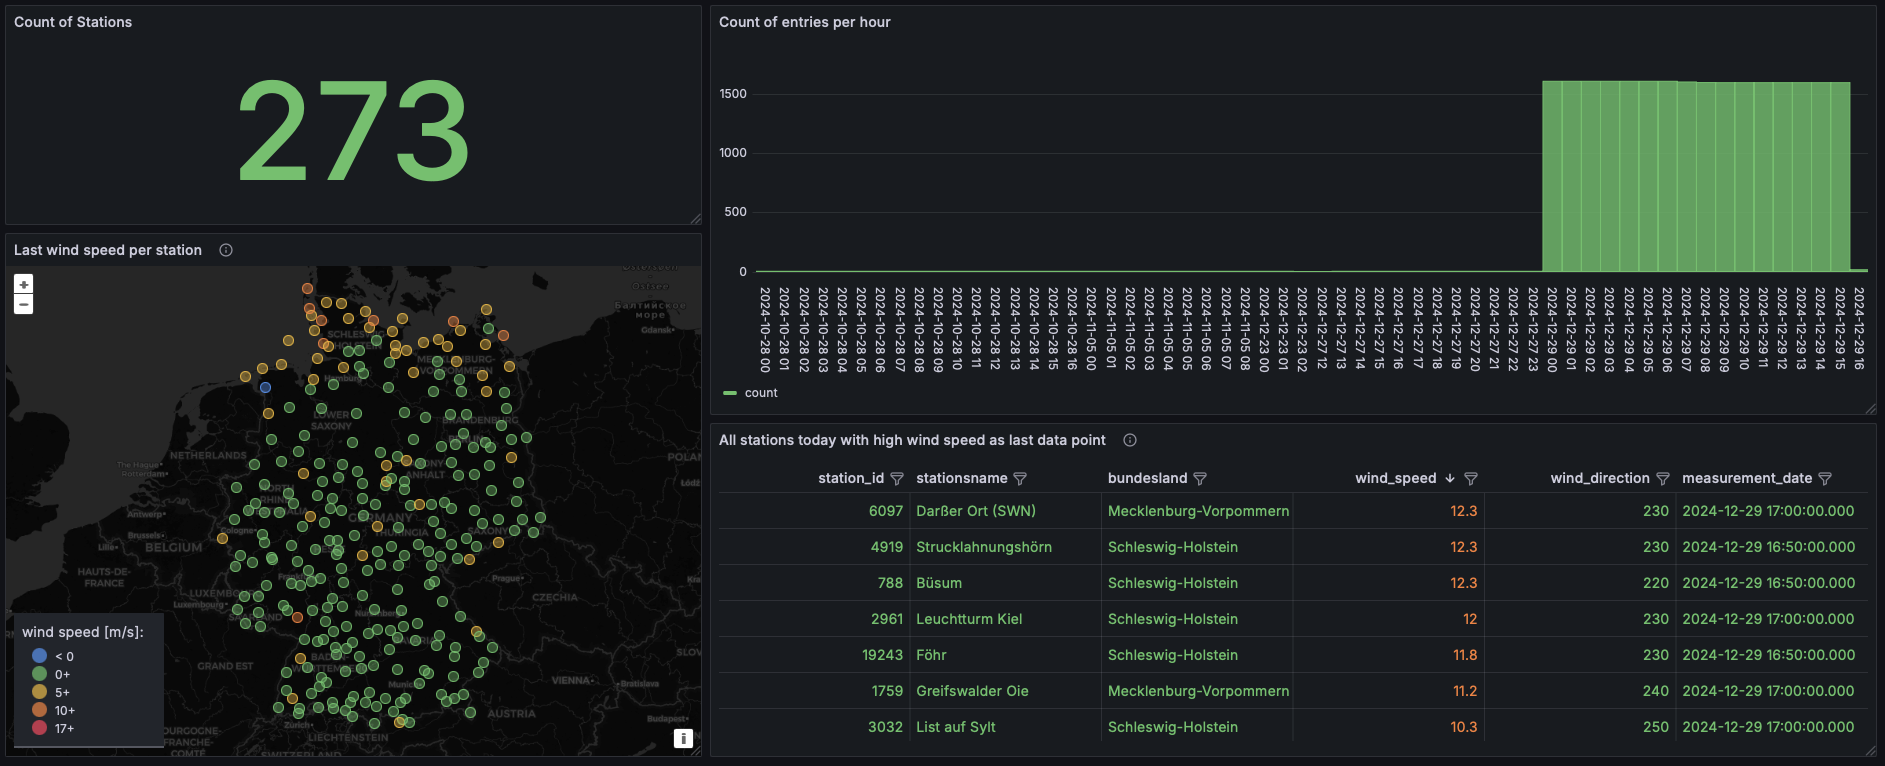
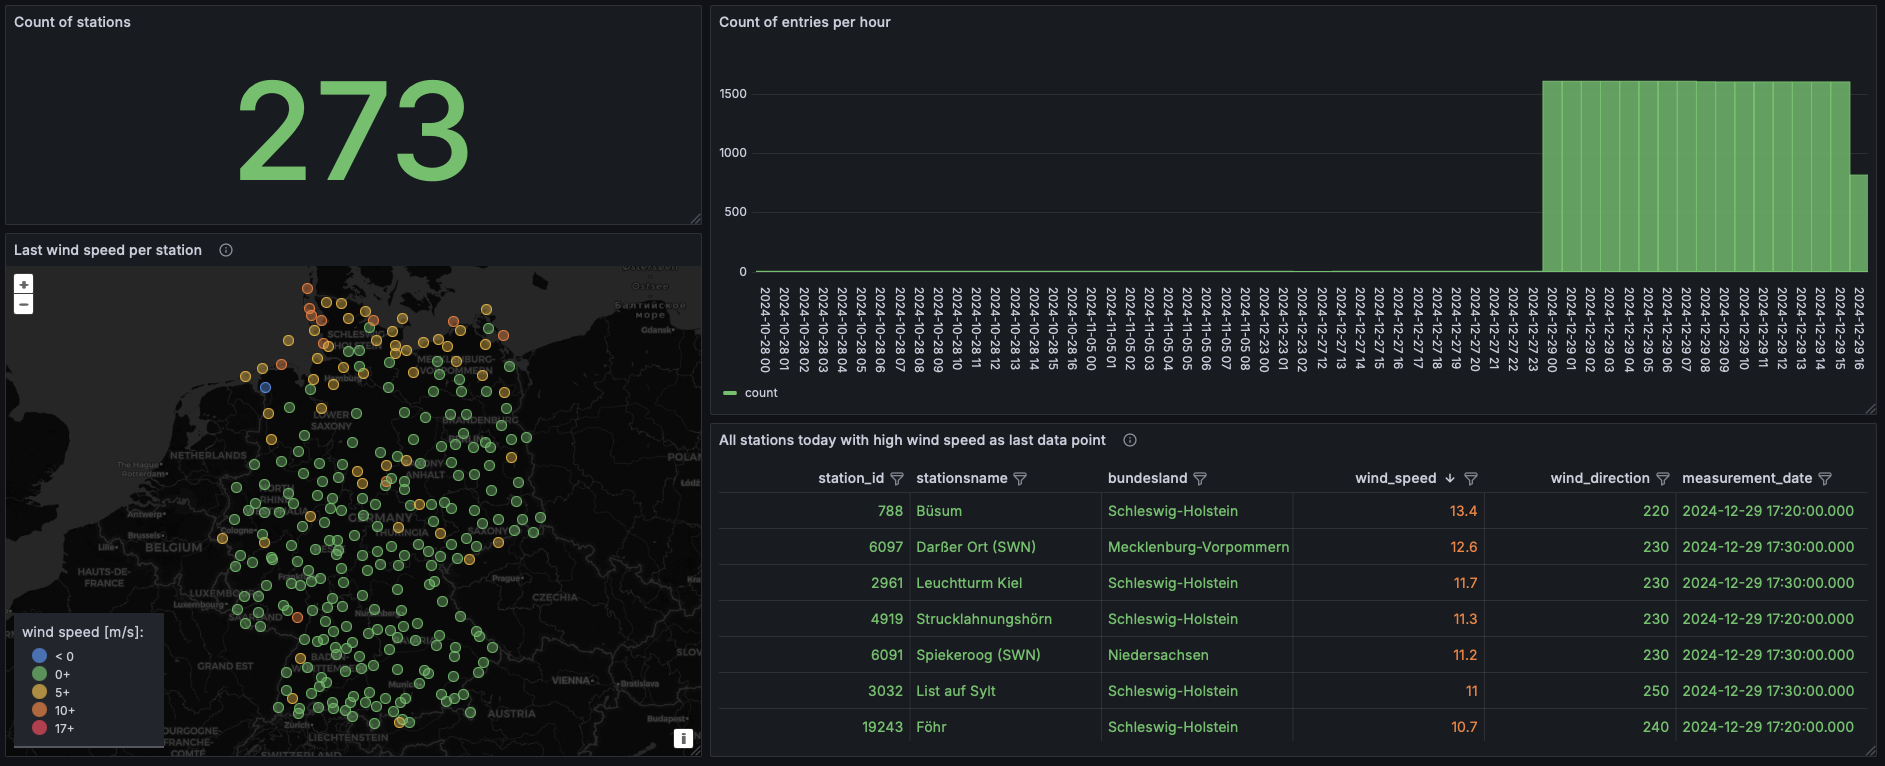
Updates in readme

diff --git a/readme.md b/readme.md
@@ -9,6 +9,7 @@
     - [Apache Spark for Data Preparation](#apache-spark-for-data-preparation)
     - [MariaDB as central storage](#mariadb-as-central-storage)
     - [PHPMyAdmin as web view for MariaDB](#phpmyadmin-as-web-view-for-mariadb)
+    - [Grafana for monitoring](#grafana-for-monitoring)
   - [Development](#development)
   - [Screencast](#screencast)
 
@@ -48,7 +49,8 @@ An Apache Kafka broker is used in the cluster as a central message queue. Two to
 For reasons of simplicity, no replication is used for the Kafka Broker. The log files are also deleted after 1 gigabyte so that the disk space of the host machine is not overfilled or configuration adjustments (e.g. maximum hard disk space used) are necessary for docker.
 
 ### Apache Spark for Data Preparation
-Apache Spark is used as the central technology for data processing. A Spark master and a Spark worker are first created in the cluster for this purpose. The Bitnami Spark image is used for this.
+Apache Spark is used as the central technology for data processing. A Spark master and two Spark workers are first created in the cluster for this purpose. The Bitnami Spark image is used for this.  
+The master information is shown on port [`8080`](https://localhost:8080), whereas the worker information are shown on ports [`8081`](https://localhost:8081) and [`8082`](https://localhost:8082).
 
 The Bitnami Spark image is also used as the base image for the Spark application, although adjustments still need to be made to make the combination of Spark, Kafka and MariaDB executable.  
 For this purpose, dependencies are downloaded as JAR files and stored in the `/opt/bitnami/spark/jars/` folder. After installing the Python dependencies, the application file can then be transferred via `spark-submit` and passed to the Spark workers for processing.
@@ -153,24 +155,24 @@ end;
 ```
 
 ### PHPMyAdmin as web view for MariaDB
-In order to able to view the stored data, PHPMyAdmin is available on port `8090`.
+In order to able to view the stored data, PHPMyAdmin is available on port [`8090`](http://localhost:8090).
 
 
 ### Grafana for monitoring
-Grafana is used to create dashboards. A custom dashboard is selected by default, which can display various data. Grafana can be accessed via localhost:3000. Here you have to enter “jetstream” as username and password to log in. The default dashboard “Jetstream” can now be selected under Dashboards on the left-hand side.
+Grafana is used to create dashboards. A custom dashboard is selected by default, which can display various data. Grafana can be accessed on port [`3000`](http://localhost:3000). Here you have to enter `jetstream` as username and password to log in. The default dashboard `Jetstream` can now be selected under Dashboards on the left-hand side.
 
 ![Grafana Dashboards](img/grafana_dashboards.png)
 
 The following data are displayed here:
 
-- **Count of stations:** Shows the count of all stations
+- **Count of stations:** Shows the amount of all stations saved in the database
 - **Count of entries per hour:** Shows the count of wind data entries per hour for all stations
 - **Last wind speed per station:** Displays a GeoMap containing all stations. The stations are color-coded according to wind speed
-- **All stations with high wind speed today:** Shows all stations which have a wind speed over 10 for today
+- **All stations today with high wind speed as last data point:** Shows the last wind speed for all stations which have a wind speed over 10 as their last data point (but only if the last data point is today)
 
 ![Graphana Dasboard](img/grafana_dashboard.png)
 
-Of course, the data are changed live as soon as new data are available in the database (approximately every 30 minutes).
+Of course, the data are changed live as soon as new data are available in the database. This happens approximately every 30 minutes because of the update cycle of the DWD.
 
 
 ## Development
